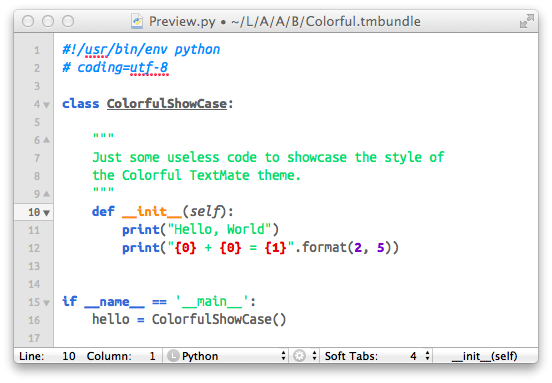
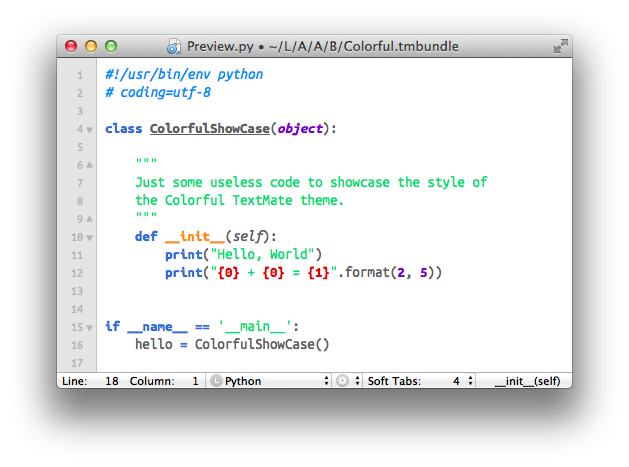
Update preview image

diff --git a/Preview.py b/Preview.py
@@ -1,7 +1,7 @@
 #!/usr/bin/env python
 # coding=utf-8
 
-class ColorfulShowCase:
+class ColorfulShowCase(object):
 
     """
     Just some useless code to showcase the style of
